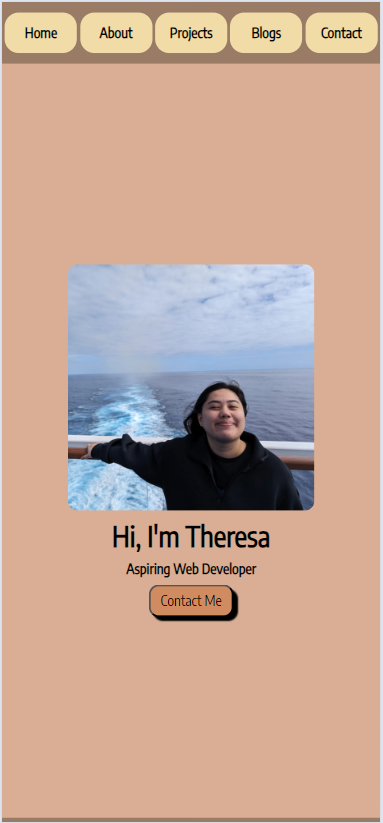
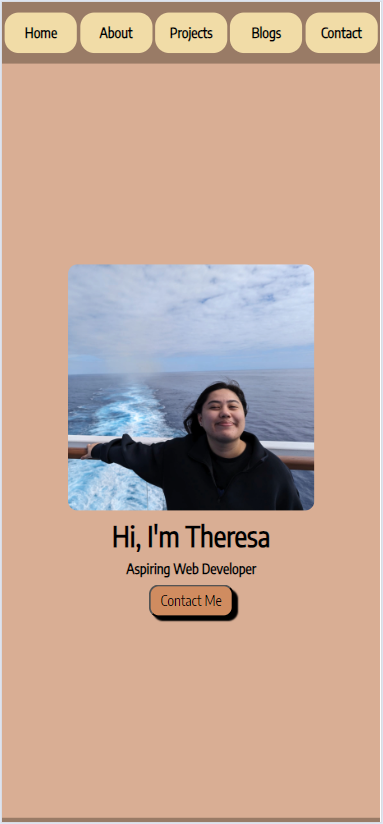
added deloyed website view screenshots

diff --git a/src/style.css b/src/style.css
@@ -187,8 +187,8 @@ button > a {
     flex-direction: column;
     justify-content: center;
     align-items: center;
-    row-gap: 1em;
-    margin: 0.7em;
+    row-gap: 2em;
+    margin: 1.5em;
     padding: 1em;
     border-radius: 2.5em;
     background-color: var(--moss-green);

diff --git a/README.md b/README.md
@@ -41,5 +41,38 @@ wireframes - Moss-green represents separate sections on html doc in body
 
 ### Deployed Website
 #### Mobile View
+Home  
+![Deployed Website Mobile View (Home)](/docs/Website%20Mobile%20View%20-%20Home.png)  
+About  
+![Deployed Website Mobile View (About)](/docs/Website%20Mobile%20View%20-%20About%201.png)
+![Deployed Website Mobile View (About)](/docs/Website%20Mobile%20View%20-%20About%202.png)  
+Projects (List)  
+![Deployed Website Mobile View (Projects List)](/docs/Website%20Mobile%20View%20-%20Projects%201.png)
+![Deployed Website Mobile View (Projects List)](/docs/Website%20Mobile%20View%20-%20Projects%202.png)  
+Projects (Individual)  
+All individual project pages follow the same format  
+![Deployed Website Mobile View (Projects Individual)](/docs/Website%20Mobile%20View%20-%20Project1%201.png)
+![Deployed Website Mobile View (Projects Individual)](/docs/Website%20Mobile%20View%20-%20Project1%202.png)  
+Blogs  
+![Deployed Website Mobile View (Blogs)](/docs/Website%20Mobile%20View%20-%20Blogs%201.png)
+![Deployed Website Mobile View (Blogs)](/docs/Website%20Mobile%20View%20-%20Blogs%202.png)
+![Deployed Website Mobile View (Blogs)](/docs/Website%20Mobile%20View%20-%20Blogs%203.png)  
+Contact  
+![Deployed Website Mobile View (Contact)](/docs/Website%20Mobile%20View%20-%20Contact.png)
 
 #### Desktop View
+Home  
+![Deployed Website Desktop View (Home)](/docs/Website%20Desktop%20View%20-%20Home.png)  
+About  
+![Deployed Website Desktop View (Home)](/docs/Website%20Desktop%20View%20-%20About%201.png)
+![Deployed Website Desktop View (Home)](/docs/Website%20Desktop%20View%20-%20About%202.png)  
+Projects (List) 
+![Deployed Website Desktop View (Home)](/docs/Website%20Desktop%20View%20-%20Projects.png)  
+Projects (Individual) 
+![Deployed Website Desktop View (Home)](/docs/Website%20Desktop%20View%20-%20Project1%201.png)
+![Deployed Website Desktop View (Home)](/docs/Website%20Desktop%20View%20-%20Project1%202.png)  
+Blogs  
+![Deployed Website Desktop View (Home)](/docs/Website%20Desktop%20View%20-%20Blogs%201.png)
+![Deployed Website Desktop View (Home)](/docs/Website%20Desktop%20View%20-%20Blogs%202.png)  
+Contact  
+![Deployed Website Desktop View (Home)](/docs/Website%20Desktop%20View%20-%20Contact.png)  
